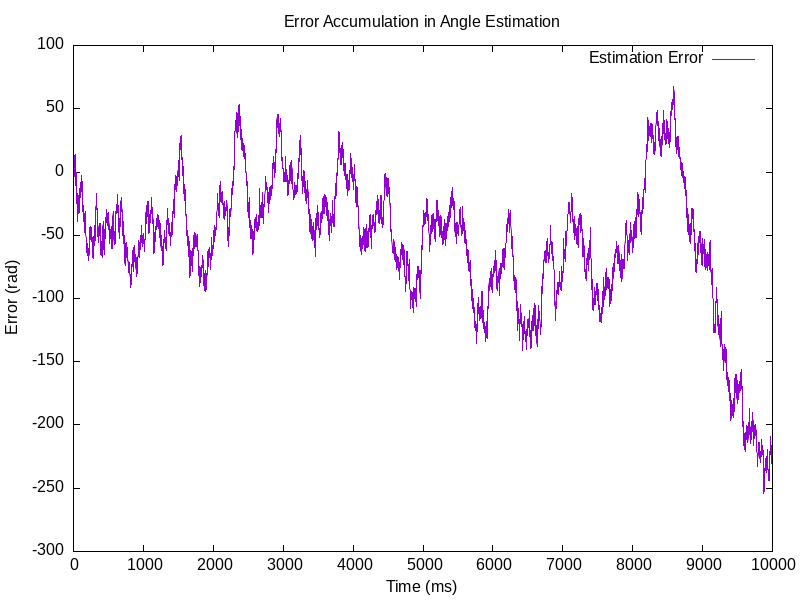
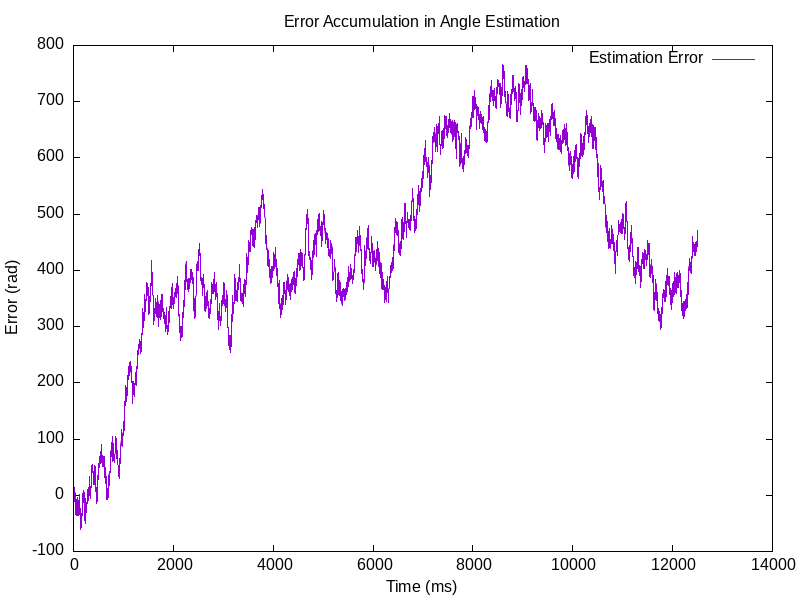
Изменил уравнение и отошел от идеи с маятником

diff --git a/main.cpp b/main.cpp
@@ -30,7 +30,7 @@ int main() {
 
     double T = 0.5;    // шаг дискретизации
     double omega_true = 2.0; // истинная угловая скорость
-    double R = 15.5;    // дисперсия шума измерений
+    double R = 45.5;    // дисперсия шума измерений
 
     double theta_true = 10.0;     // истинный угол
     double theta_est = 0.0;      // оцененный угол (интегрирование измерений)
@@ -41,7 +41,7 @@ int main() {
     std::vector<std::pair<double, double>> theta_est_no_noise_data;
     std::vector<std::pair<double, double>> error_data;
 
-    int steps = 20000;
+    int steps = 25000;
     for (int k = 0; k < steps; ++k) {
         double time = k * T;
 
